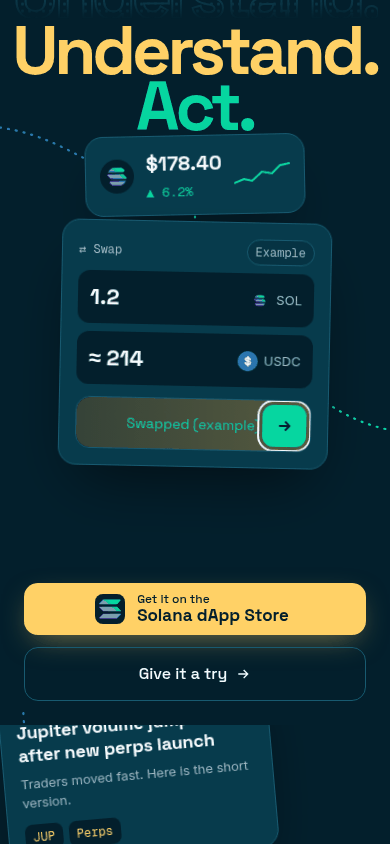
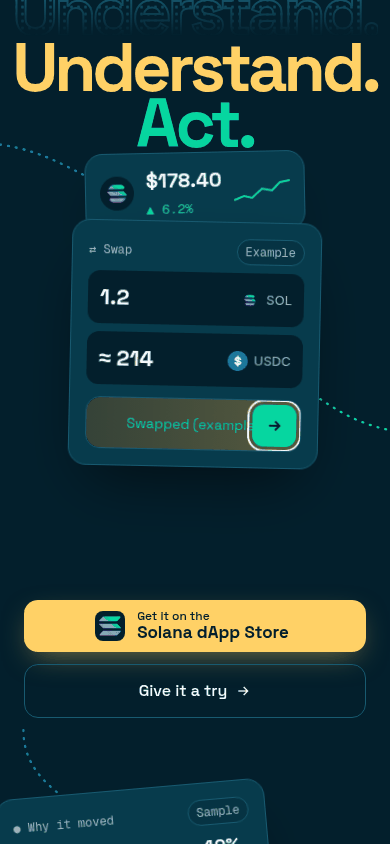
fix(web): landing v6 mobile layout from design review (#437)
390: no card parallax on phones, taller Wallet section so the portfolio card
sits above the word and the Move card clears the line, route ends at the
Pacifica tile, smaller hero swap card. Adds bounding-box layout check.

Refs #437

Changed region(s): [[0.0308, 0.0, 0.9846, 0.5545], [0.0, 0.6777, 0.9538, 1.0]]

diff --git a/apps/web/src/components/landing/Landing.tsx b/apps/web/src/components/landing/Landing.tsx
@@ -254,7 +254,7 @@ function Hero({ reduced }: { reduced: boolean }) {
       const at = (x: number, y: number): Pt => [(x * W) / 100, (y * H) / 100]
       // Blue = understand (story, price), green = act (swap).
       const b = isMobile() ? [at(50, 36)] : [at(15, 27), at(17, 71)]
-      const g = [b[b.length - 1], isMobile() ? at(50, 56) : at(84, 70)]
+      const g = [b[b.length - 1], isMobile() ? at(50, 54) : at(84, 70)]
       const pre: Pt = [-40, b[0][1] - 60]
       const post: Pt = [W + 40, g[g.length - 1][1] + 80]
       setPaths({ p1: curve([pre, ...b], 'x'), p2: curve([...g, post], 'x'), all: curve([pre, ...b, ...g.slice(1), post], 'x') })
@@ -295,7 +295,7 @@ function Hero({ reduced }: { reduced: boolean }) {
       <div className={s.tile} style={{ ...place({ x: 17, y: 71, w: 230, r: 3 }, { x: 50, y: 36, w: 220, r: -2 }), '--d': '5.7s', animationDelay: '-1.3s' } as CSSProperties}>
         <PriceCard />
       </div>
-      <div className={s.tile} style={{ ...place({ x: 84, y: 70, w: 290, r: 3 }, { x: 50, y: 56, w: 270, r: 2 }), '--d': '6.4s', animationDelay: '-2.6s' } as CSSProperties}>
+      <div className={s.tile} style={{ ...place({ x: 84, y: 70, w: 290, r: 3 }, { x: 50, y: 54, w: 250, r: 2 }), '--d': '6.4s', animationDelay: '-2.6s' } as CSSProperties}>
         <SwapCard />
       </div>
       <div className={s.copy}>
@@ -341,7 +341,14 @@ export default function Landing() {
     const pac = c(q('#apps [data-node]'))
     const wal = c(q(`#wallet [data-node-${m ? 'm' : 'd'}]`))
     if (!start || !story || !pac || !wal || !feed) return
-    const pts: Pt[] = [start, story, [W * (m ? 0.05 : 0.04), feed.offsetTop + feed.offsetHeight * 0.55], [W * (m ? 0.04 : 0.03), pac[1]], pac, wal]
+    const pts: Pt[] = [start, story, [W * (m ? 0.05 : 0.04), feed.offsetTop + feed.offsetHeight * 0.55], [W * (m ? 0.04 : 0.03), pac[1]]]
+    if (m) {
+      // Mobile: the route ends at the Pacifica tile's left edge instead of running behind it.
+      const tile = q('#apps [data-node]')!.getBoundingClientRect()
+      pts.push([tile.left - base.left - 4, pac[1]])
+    } else {
+      pts.push(pac, wal)
+    }
     setGp({ h: el.scrollHeight, g1: curve(pts.slice(0, 3), 'y'), g2: curve(pts.slice(2), 'y'), all: curve(pts, 'y') })
   }, [])
 
@@ -388,6 +395,11 @@ export default function Landing() {
     let raf = 0
     const tick = () => {
       raf = 0
+      // Phones get no card parallax: at 390 it pushed cards into the big words and copy.
+      if (isMobile()) {
+        all().forEach((e) => e.style.removeProperty('--py'))
+        return
+      }
       const vh = window.innerHeight
       for (const e of all()) {
         const r = e.getBoundingClientRect()
@@ -463,7 +475,7 @@ export default function Landing() {
         </ul>
       </section>
 
-      <section className={s.sec} id="wallet" style={{ '--c': colors.accent } as CSSProperties}>
+      <section className={`${s.sec} ${s.wallet}`} id="wallet" style={{ '--c': colors.accent } as CSSProperties}>
         <Words word="Wallet" echo className={s.walletWords} />
         <Tl d={{ x: 16, y: 34, w: 300, r: -4, dp: 0.25 }} m={{ x: 50, y: 18, w: 300, r: -3 }} node="m"><PortfolioCard /></Tl>
         <Tl d={{ x: 85, y: 66, w: 290, r: 4, dp: 0.2 }} m={{ x: 50, y: 73, w: 300, r: 3 }} node="d"><MoveCard /></Tl>

diff --git a/docs/proof-437/layout.js b/docs/proof-437/layout.js
@@ -1,0 +1,29 @@
+// Bounding-box layout check (UX review on #438). Gaps in px; negative = overlap. Each pair must be >= its min.
+const p=require('puppeteer-core');
+const vgap=(a,b)=>Math.round(b.top-a.bottom); // b below a
+module.exports=async function layout(b,url,w,h){
+ const pg=await b.newPage();await pg.setViewport({width:w,height:h,isMobile:w<600,hasTouch:w<600});
+ await pg.goto(url,{waitUntil:'networkidle0'});
+ const out={};
+ for(const sec of ['hero','feed','apps','wallet']){
+  await pg.evaluate(s=>document.getElementById(s).scrollIntoView({block:'start'}),sec);await new Promise(r=>setTimeout(r,1400));
+  const R=await pg.evaluate(()=>{const g=e=>{if(!e)return null;const r=e.getBoundingClientRect();return {top:r.top+scrollY,bottom:r.bottom+scrollY,left:r.left,right:r.right}};const vis=[...document.querySelectorAll('[class*=tl],[class*=tile]')].filter(e=>e.offsetParent);
+   const inSec=id=>vis.filter(e=>e.closest('section').id===id).map(e=>g(e.firstElementChild||e));
+   return {hero:g(document.getElementById('hero')),ctas:g(document.querySelector('#hero [class*=ctas]')),heroCards:inSec('hero'),feedCards:inSec('feed'),walletCards:inSec('wallet'),
+    walletWord:g(document.querySelector('#wallet h2 [class*=main]')),walletLine:g(document.querySelector('#wallet p:last-child')),
+    pac:g(document.querySelector('#apps [data-node]')),apps:g(document.getElementById('apps')),vw:innerWidth}});
+  Object.assign(out,{[sec]:R});
+ }
+ await pg.close();
+ const o=out, res={};
+ const hc=o.hero.heroCards, fc=o.feed.feedCards, wc=o.wallet.walletCards;
+ res.heroSwapToCtas=vgap(hc[hc.length-1],o.hero.ctas);
+ res.feedStoryBelowHero=Math.round(fc[0].top-o.feed.hero.bottom);
+ res.walletPortfolioAboveWord=vgap(wc[0],o.wallet.walletWord);
+ res.walletWordAboveMove=vgap(o.wallet.walletWord,wc[1]);
+ res.walletMoveAboveLine=vgap(wc[1],o.wallet.walletLine);
+ const pac=o.apps.pac,ap=o.apps.apps;
+ res.pacificaInside={left:Math.round(pac.left),right:Math.round(o.apps.vw-pac.right),bottom:Math.round(ap.bottom-pac.bottom),xPct:Math.round(((pac.left+pac.right)/2)/o.apps.vw*100),yPct:Math.round(((pac.top+pac.bottom)/2-ap.top)/(ap.bottom-ap.top)*100)};
+ const min={heroSwapToCtas:w<600?16:0,feedStoryBelowHero:24,walletPortfolioAboveWord:w<600?0:null,walletWordAboveMove:w<600?0:null,walletMoveAboveLine:24};
+ res.fail=Object.entries(min).filter(([k,v])=>v!==null&&res[k]<v).map(([k])=>k).concat(Object.values(res.pacificaInside).slice(0,3).some(v=>v<0)?['pacificaInside']:[]);
+ return res}

diff --git a/docs/proof-437/checks.js b/docs/proof-437/checks.js
@@ -39,4 +39,5 @@ for(const [n,w,h] of [['1440',1440,900],['390',390,844]]){
 // no JS
 {const pg=await b.newPage();await pg.setViewport({width:1440,height:900});await pg.setJavaScriptEnabled(false);await pg.goto('http://localhost:3437/',{waitUntil:'networkidle0'});
  res.nojs=await pg.evaluate(()=>({words:[...document.querySelectorAll('h1,h2')].map(e=>e.innerText.replace(/\s+/g,' ')),tiles:document.querySelectorAll('li[tabindex]').length,hiddenCards:[...document.querySelectorAll('[class*=tl] > div')].filter(e=>getComputedStyle(e).opacity!=='1').length,line:document.querySelector('#wallet p:last-child')?.innerText}));await pg.close()}
+res.layout={};for(const [n,w,h] of [['390',390,844],['1440',1440,900]])res.layout[n]=await require('./layout')(b,'http://localhost:3437/',w,h);
 console.log(JSON.stringify(res,null,1));await b.close()})();

diff --git a/apps/web/src/components/landing/landing.module.css b/apps/web/src/components/landing/landing.module.css
@@ -177,6 +177,8 @@
   .copy { bottom: calc(24px + env(safe-area-inset-bottom)); }
   .ctas a { width: 100%; justify-content: center; }
   .apps { height: 620px; min-height: 620px; }
+  /* Taller so the portfolio card clears the word and the Move card clears the line (>= 24px). */
+  .wallet { height: 980px; min-height: 980px; }
   .arcsD { display: none; }
   .arcsM { display: block; }
   .burst { width: 520px; height: 520px; }
